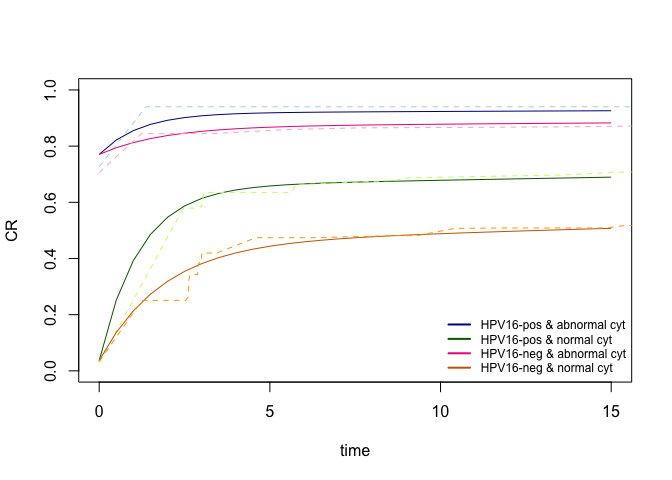
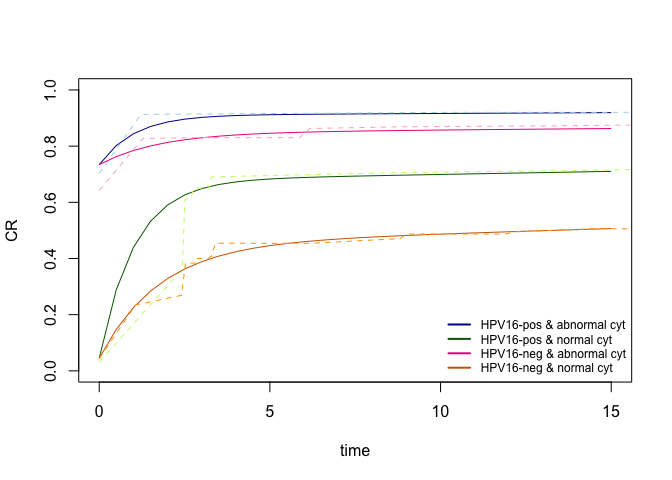
update readme plot

diff --git a/README.md b/README.md
@@ -54,21 +54,21 @@ library(PICmodel)
 sim.thetas <- c(-5, -1.6, -1.2, -3)
 sim.dat <- PICmodel.simulator(1000, c(), c(), c(), sim.thetas, show_prob = 0.9, interval=3, include.h=T)
 head(sim.dat) # view simulated data
-#>       left     right z      age     age.std hpv cyt cause      actual
-#> 1 23.93008       Inf 0 39.20837 -0.46567478   0   1     3  25.3322721
-#> 2 23.70617       Inf 0 49.35929 -0.01966284   0   0     3 213.1513153
-#> 3  0.00000  2.870138 0 65.08876  0.67146005   0   1     2   0.1278914
-#> 4 15.05163 18.121568 0 47.19246 -0.11486908   0   0     3  15.6220568
-#> 5  0.00000  0.000000 1 69.03762  0.84496557   0   0     1   0.0000000
-#> 6 23.76392       Inf 0 42.57620 -0.31769854   1   0     3 346.0784502
+#>        left     right z      age    age.std hpv cyt cause      actual
+#> 1 20.958787       Inf 0 52.84289  0.1031094   1   0     3 983.0845280
+#> 2  0.000000  6.239495 0 55.11465  0.1997830   1   1     2   3.6913789
+#> 3 24.157009       Inf 0 32.87648 -0.7465480   0   1     3  58.2826670
+#> 4 24.139272       Inf 0 40.08313 -0.4398735   0   1     3 452.5952674
+#> 5  0.000000  3.420154 0 56.78090  0.2706892   0   1     2   0.4380654
+#> 6  8.751095 12.161086 0 60.18916  0.4157253   1   0     3   9.3888763
 
 sim.fit <- PICmodel.fit(c(), c(), c(), sim.dat) # fit model to simulated data
 sim.fit$summary # view model fit summary
 #>        param theta.hat std.dev   lower   upper
-#> h          h   -4.9354  0.1462 -5.2220 -4.6489
-#> g0 intercept   -1.6305  0.0849 -1.7969 -1.4641
-#> w0 intercept   -1.1896  0.1005 -1.3865 -0.9926
-#> p0 intercept   -3.1413  0.1693 -3.4732 -2.8095
+#> h          h   -4.6724  0.1255 -4.9184 -4.4265
+#> g0 intercept   -1.5026  0.0829 -1.6651 -1.3401
+#> w0 intercept   -1.1412  0.0981 -1.3335 -0.9489
+#> p0 intercept   -3.3329  0.1851 -3.6957 -2.9701
 
 sim.predict <- PICmodel.predict(data=sim.dat[1,], time.points = seq(0, 15, 0.5), fit=sim.fit)
 
@@ -76,7 +76,7 @@ library(survival) # compare model fit to non-parametric Kaplan-Meier curve
 sim.km.fit <- survfit(Surv(sim.dat$left, sim.dat$right, type='interval2')~1)
 
 # plot PICmodel predictions and KM-curve to compare 
-plot(sim.predict[[1]]$Time, sim.predict[[1]]$CR, type='l', xlab='time', ylab='CR', ylim=c(0.2, 0.65))
+plot(sim.predict[[1]]$Time, sim.predict[[1]]$CR, type='l', xlab='time', ylab='CR')
 lines(sim.km.fit$time, 1-sim.km.fit$surv, col='blue')
 ```
 
@@ -92,23 +92,23 @@ as a covariate for prevalence then we would d the following:
 sim.thetas.cov <- c(-5, -1.6, 1, -1.2, -3, 4)
 sim.dat2 <- PICmodel.simulator(1000, c("hpv"), c(), c("cyt"), sim.thetas.cov, show_prob = 0.9, interval=3, include.h=T)
 head(sim.dat2) # view simulated data
-#>       left    right  z      age    age.std hpv cyt cause      actual
-#> 1  0.00000 3.020843 NA 59.68263  0.3822252   0   0     2   2.3822729
-#> 2 23.88299      Inf  0 68.78988  0.7748872   0   1     3  56.6994288
-#> 3 24.17573      Inf  0 32.31065 -0.7979259   0   0     3  93.5257920
-#> 4 23.49904      Inf  0 68.91464  0.7802662   0   1     3 326.3057599
-#> 5 24.47878      Inf  0 65.31513  0.6250723   1   0     3 186.9925219
-#> 6  0.00000 3.207084  0 63.81941  0.5605839   1   0     2   0.2103087
+#>       left   right z      age     age.std hpv cyt cause     actual
+#> 1  0.00000 3.29315 0 32.60925 -0.75071887   1   0     2   0.342287
+#> 2  0.00000 0.00000 1 50.28429  0.01579363   0   1     1   0.000000
+#> 3 24.20113     Inf 0 36.72282 -0.57232613   0   0     3 362.487660
+#> 4  0.00000 0.00000 1 30.15812 -0.85701690   0   1     1   0.000000
+#> 5  0.00000 0.00000 1 46.04396 -0.16809635   0   1     1   0.000000
+#> 6  0.00000 0.00000 1 46.10376 -0.16550329   0   1     1   0.000000
 
 sim.fit2 <- PICmodel.fit(c("hpv"), c(), c("cyt"), sim.dat2) # fit model to simulated data
 sim.fit2$summary # view model fit summary
 #>        param theta.hat std.dev   lower   upper
-#> h          h   -4.9675  0.1894 -5.3387 -4.5963
-#> g0 intercept   -1.4729  0.1089 -1.6864 -1.2595
-#> g1       hpv    0.8566  0.1513  0.5601  1.1532
-#> w0 intercept   -1.2013  0.1154 -1.4275 -0.9751
-#> p0 intercept   -3.2644  0.2329 -3.7209 -2.8079
-#> p1       cyt    4.4758  0.2622  3.9619  4.9897
+#> h          h   -4.9112  0.1862 -5.2762 -4.5463
+#> g0 intercept   -1.4311  0.1133 -1.6532 -1.2090
+#> g1       hpv    0.9781  0.1545  0.6753  1.2809
+#> w0 intercept   -1.1209  0.1235 -1.3629 -0.8788
+#> p0 intercept   -3.0578  0.2126 -3.4745 -2.6411
+#> p1       cyt    4.0741  0.2404  3.6029  4.5453
 
 sim.predict2 <- PICmodel.predict(data=data.frame(hpv = c(1, 1, 0, 0), cyt=c(1, 0, 1, 0)), 
                               time.points = seq(0, 15, 0.5), fit=sim.fit2)
